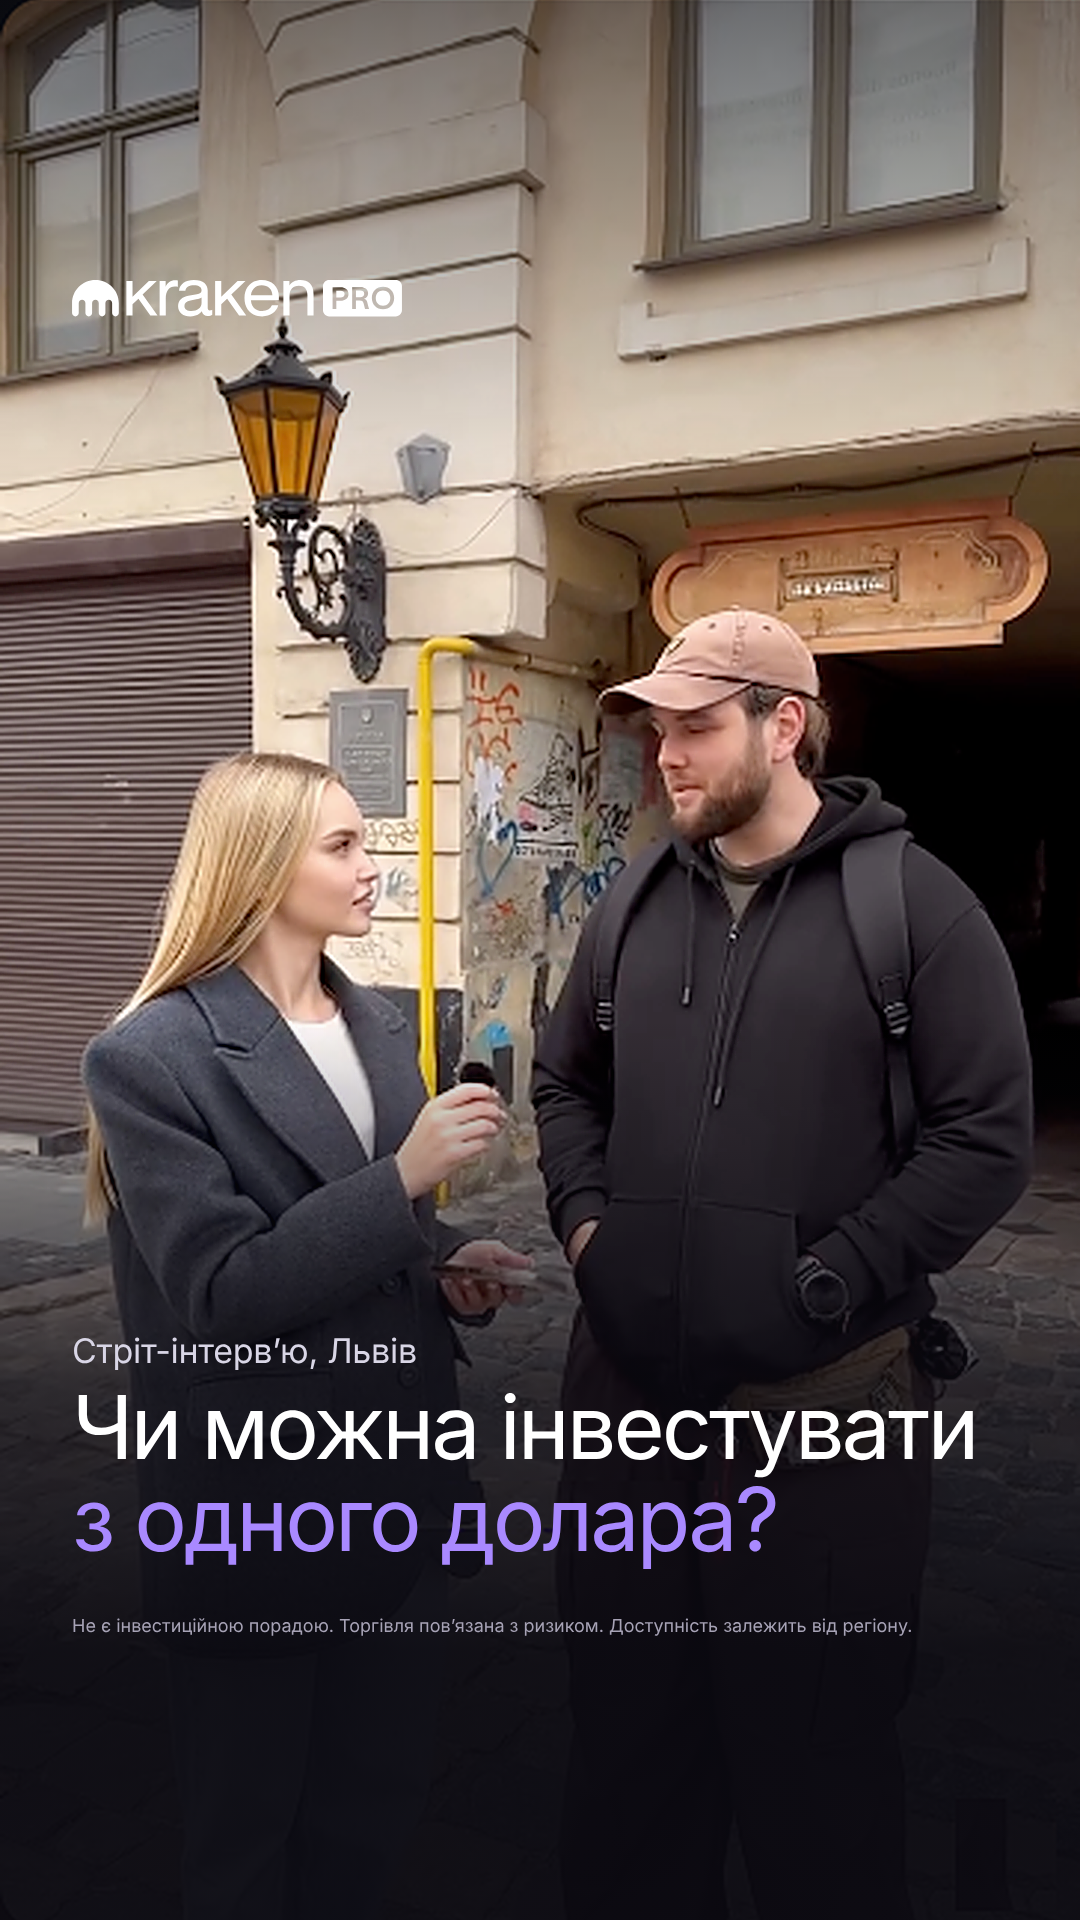
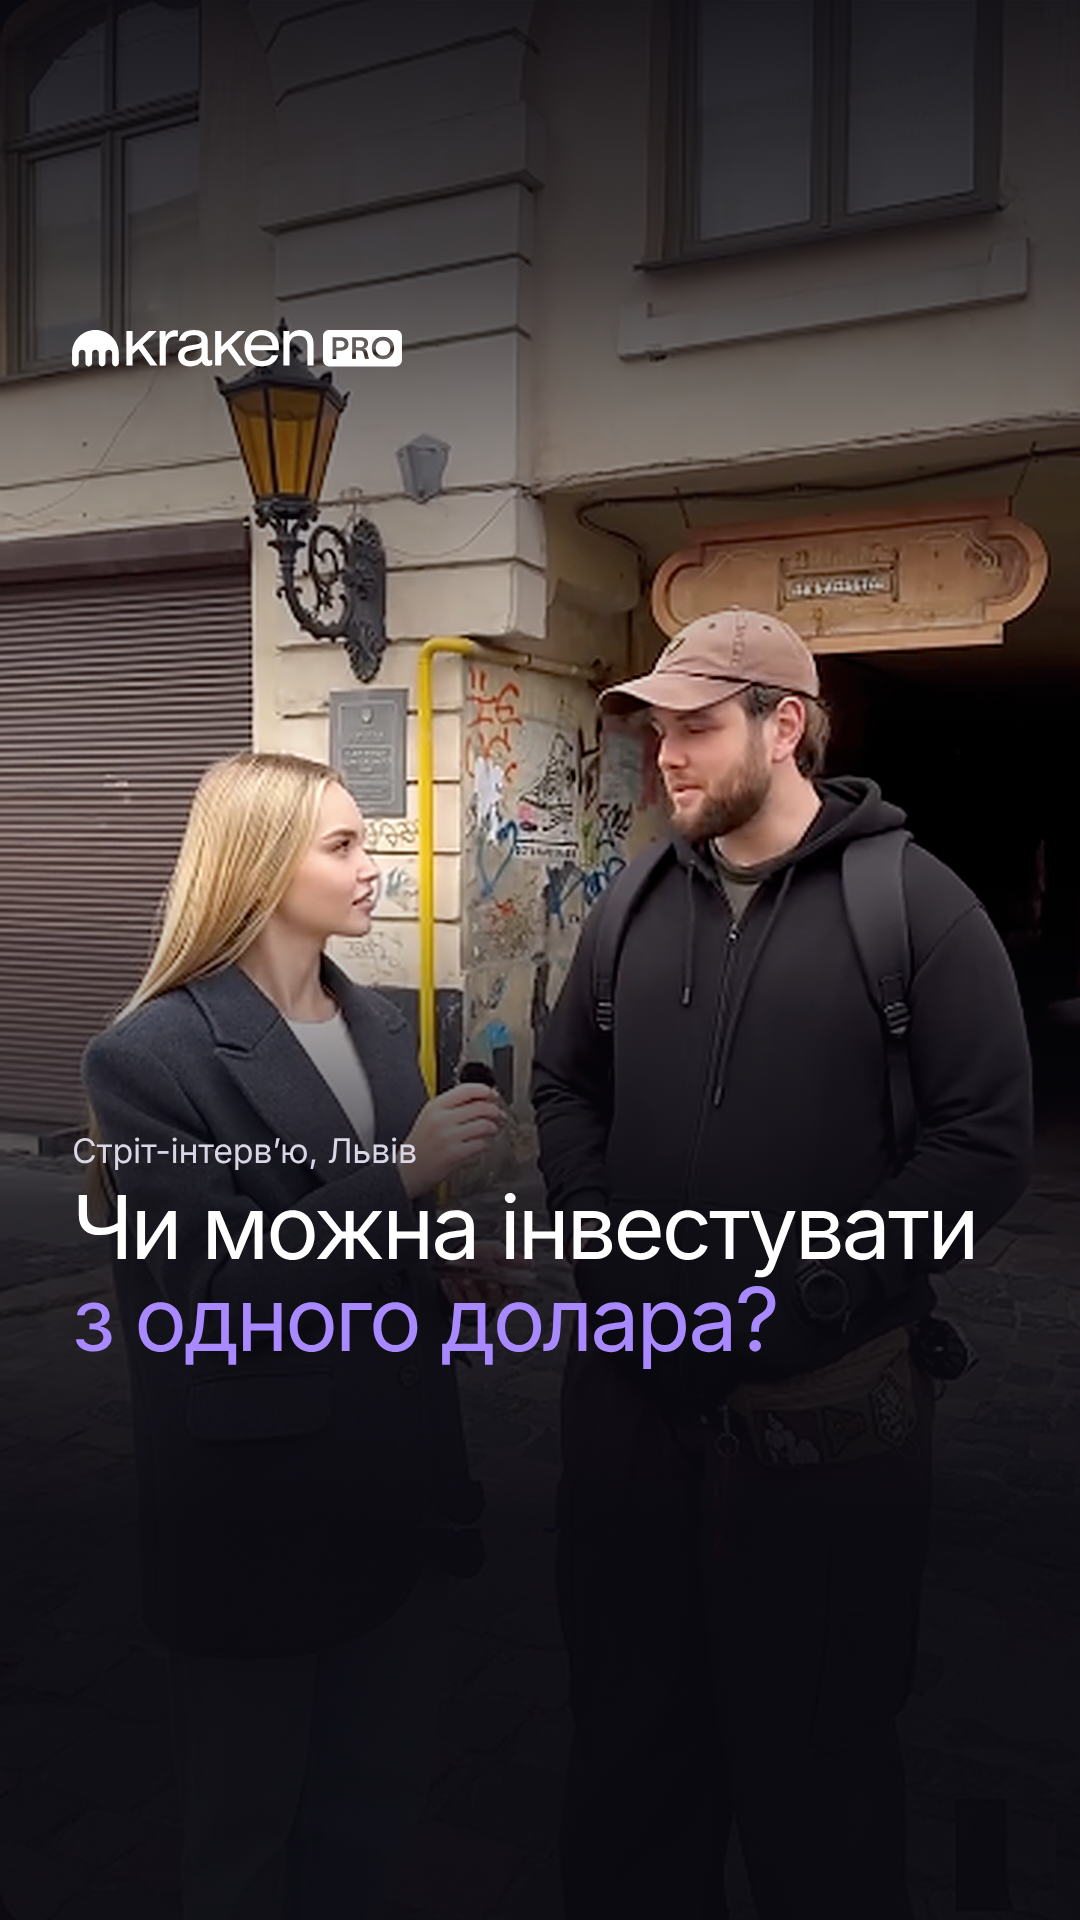
Street interview cover 9:16: remove disclaimer, raise title, darken top
Claude-Session: https://claude.ai/code/session_01Li97ffKf2q18jZ4p57ZTsX

diff --git a/street-interview-cover/cover-9x16.html b/street-interview-cover/cover-9x16.html
@@ -2,16 +2,16 @@
 *{margin:0;padding:0;box-sizing:border-box}
 body{font-family:Inter,sans-serif;-webkit-font-smoothing:antialiased}
 #c{width:1080px;height:1920px;position:relative;overflow:hidden;background:#0a0910 url(photo-9x16.png) center/cover;color:#fff}
-.top{position:absolute;left:0;right:0;top:0;height:520px;background:linear-gradient(180deg,rgba(8,7,12,.55),rgba(8,7,12,0))}
-.shade{position:absolute;left:0;right:0;bottom:0;height:900px;background:linear-gradient(180deg,rgba(10,9,16,0),rgba(10,9,16,.8) 40%,rgba(10,9,16,.96) 70%)}
-.logo{position:absolute;left:72px;top:280px;width:330px}
-.eb{position:absolute;left:72px;top:1330px;font-size:34px;color:#d9d6e6;letter-spacing:-.3px}
-h1{position:absolute;left:72px;top:1382px;font-weight:400;font-size:88px;line-height:1.04;letter-spacing:-3px}
+.top{position:absolute;left:0;right:0;top:0;height:760px;background:linear-gradient(180deg,rgba(10,9,16,.92),rgba(10,9,16,.75) 35%,rgba(10,9,16,0))}
+.shade{position:absolute;left:0;right:0;bottom:0;height:1050px;background:linear-gradient(180deg,rgba(10,9,16,0),rgba(10,9,16,.8) 32%,rgba(10,9,16,.96) 62%)}
+.logo{position:absolute;left:72px;top:330px;width:330px}
+.eb{position:absolute;left:72px;top:1130px;font-size:34px;color:#d9d6e6;letter-spacing:-.3px}
+h1{position:absolute;left:72px;top:1182px;font-weight:400;font-size:88px;line-height:1.04;letter-spacing:-3px}
 h1 span{color:#A989FF}
 .disc{position:absolute;left:72px;top:1615px;font-size:18px;color:#a7a3b6}
 </style></head><body><div id="c"><div class="top"></div><div class="shade"></div>
 <img class="logo" src="logo.svg">
 <div class="eb">Стріт-інтерв’ю, Львів</div>
 <h1>Чи можна інвестувати<br><span>з одного долара?</span></h1>
-<div class="disc">Не є інвестиційною порадою. Торгівля пов’язана з ризиком. Доступність залежить від регіону.</div>
+
 </div></body></html>
